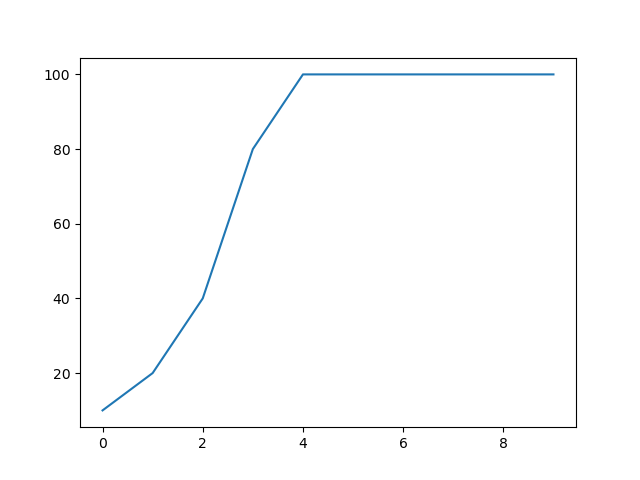
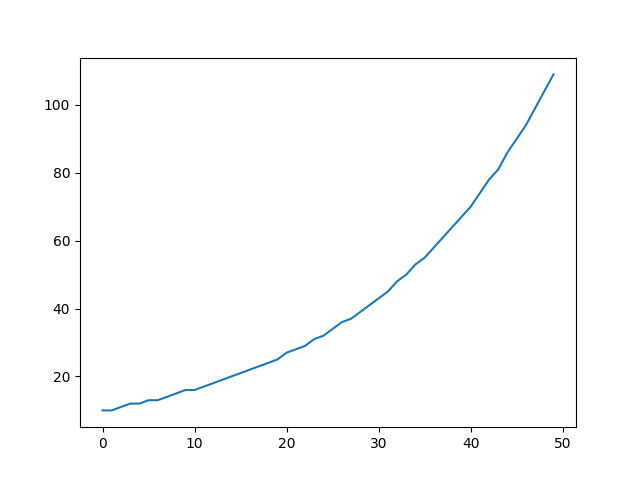
Fixing ExponentialBS rounding errors for small gamma
* Previous behavior: when the exponential factor gamma used by ExponentialBS is too small, the batch size would remain constant.
* Fixed this by maintaining a float value for the batch size as an internal state.
* Updated tests
* Added new plots

diff --git a/tests/test_ExponentialBS.py b/tests/test_ExponentialBS.py
@@ -53,8 +53,8 @@ class TestExponentialBS(BSTest):
 
         base_batch_size = 10
         dataloader = create_dataloader(self.dataset, batch_size=base_batch_size)
-        scheduler = ExponentialBS(dataloader, gamma=2, max_batch_size=100, verbose=False)
-        n_epochs = 10
+        scheduler = ExponentialBS(dataloader, gamma=1.05, max_batch_size=500, verbose=False)
+        n_epochs = 50
 
         batch_sizes = get_batch_sizes_across_epochs(dataloader, scheduler, n_epochs)
         plt.plot(batch_sizes)
@@ -64,7 +64,7 @@ class TestExponentialBS(BSTest):
 
         model = torch.nn.Linear(10, 10)
         optimizer = torch.optim.SGD(model.parameters(), lr=0.01)
-        scheduler = torch.optim.lr_scheduler.ExponentialLR(optimizer, gamma=0.5)
+        scheduler = torch.optim.lr_scheduler.ExponentialLR(optimizer, gamma=0.95)
         learning_rates = []
 
         def get_lr(optimizer):

diff --git a/tests/test_ChainedBSScheduler.py b/tests/test_ChainedBSScheduler.py
@@ -24,7 +24,7 @@ class TestChainedBSScheduler(BSTest):
         n_epochs = 10
 
         epoch_lengths = simulate_n_epochs(dataloader, scheduler, n_epochs)
-        expected_batch_sizes = [100, 110, 121, 133, 14, 15, 16, 18, 20, 22]
+        expected_batch_sizes = [100, 110, 121, 133, 14, 16, 18, 20, 22, 24]
         expected_lengths = self.compute_epoch_lengths(expected_batch_sizes, len(self.dataset), drop_last=False)
         self.assertEqual(epoch_lengths, expected_lengths)
 
@@ -37,7 +37,7 @@ class TestChainedBSScheduler(BSTest):
         n_epochs = 10
 
         batch_sizes = get_batch_sizes_across_epochs(dataloader, scheduler, n_epochs)
-        expected_batch_sizes = [100, 110, 121, 133, 14, 15, 16, 18, 20, 22]
+        expected_batch_sizes = [100, 110, 121, 133, 14, 16, 18, 20, 22, 24]
 
         self.assertEqual(batch_sizes, expected_batch_sizes)
 

diff --git a/bs_scheduler/batch_size_schedulers.py b/bs_scheduler/batch_size_schedulers.py
@@ -665,6 +665,7 @@ class ExponentialBS(BSScheduler):
         assert gamma > 0.0
         # Gamma is expected to be greater than 1.0 for batch size growth. It can be lower than 1.0 for batch size decay.
         self.gamma: float = gamma
+        self.float_bs: Union[float, None] = None
         super().__init__(dataloader, batch_size_manager, max_batch_size, min_batch_size, verbose)
 
     def get_new_bs(self) -> int:
@@ -674,7 +675,11 @@ class ExponentialBS(BSScheduler):
         if self.last_epoch == 0:
             return self.batch_size
 
-        return rint(self.batch_size * self.gamma)
+        if self.float_bs is None or rint(self.float_bs) != self.batch_size:
+            self.float_bs = self.batch_size
+
+        self.float_bs *= self.gamma
+        return rint(self.float_bs)
 
 
 class SequentialBS(BSScheduler):

diff --git a/tests/test_SequentialBS.py b/tests/test_SequentialBS.py
@@ -24,7 +24,7 @@ class TestSequentialBS(BSTest):
         n_epochs = 10
 
         epoch_lengths = simulate_n_epochs(dataloader, scheduler, n_epochs)
-        expected_batch_sizes = [100] * 4 + [10, 11, 12, 13, 14, 15]
+        expected_batch_sizes = [100] * 4 + [10, 11, 12, 13, 15, 16]
         expected_lengths = self.compute_epoch_lengths(expected_batch_sizes, len(self.dataset), drop_last=False)
         self.assertEqual(epoch_lengths, expected_lengths)
 
